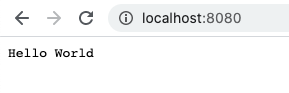
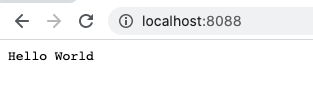
Change incorrect port on screenshot + fix typo

diff --git a/content/articles/deploying-an-app-in-gcp-part1.md b/content/articles/deploying-an-app-in-gcp-part1.md
@@ -142,7 +142,7 @@ To do so with Spring, just a property to the `application.properties` file:
 ```
 server.port=${PORT:8080}
 ```
-> If you want to set a property based on a environment variable with a default, use this: ${MY_ENV_VARIABLE:my default value}. Here, we get the PORT from the environment, or we fall back to 8080.
+> If you want to set a property based on an environment variable with a default, use this: ${MY_ENV_VARIABLE:my default value}. Here, we get the PORT from the environment, or we fall back to 8080.
 
 ## Request the server to see if it works
 
